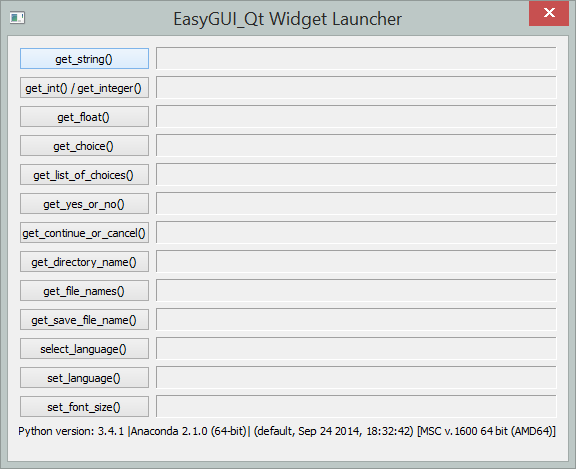
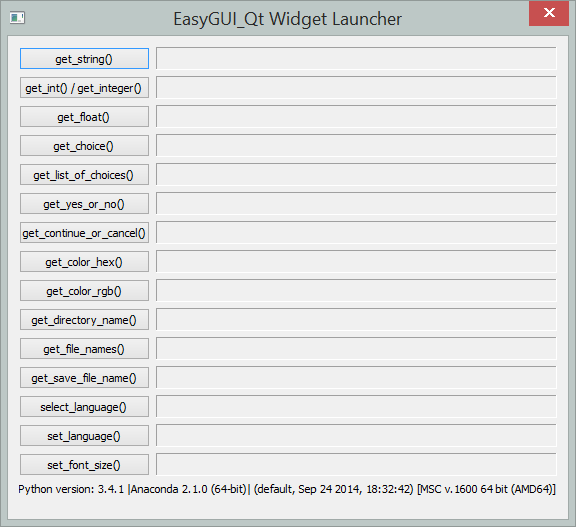
added color dialogs

Changed region(s): [[0.0, 0.0, 1.0, 0.9552], [0.25, 0.8358, 0.9688, 0.8657]]

diff --git a/easygui_qt/demos/launcher.py b/easygui_qt/demos/launcher.py
@@ -99,6 +99,20 @@ class Dialog(QtGui.QDialog):
         layout.addWidget(self.get_continue_or_cancel_button, n, 0)
         layout.addWidget(self.get_continue_or_cancel_label, n, 1)
         n += 1
+        self.get_color_hex_button = QtGui.QPushButton("get_color_hex()")
+        self.get_color_hex_button.clicked.connect(self.get_color_hex)
+        self.get_color_hex_label = QtGui.QLabel()
+        self.get_color_hex_label.setFrameStyle(frameStyle)
+        layout.addWidget(self.get_color_hex_button, n, 0)
+        layout.addWidget(self.get_color_hex_label, n, 1)
+        n += 1
+        self.get_color_rgb_button = QtGui.QPushButton("get_color_rgb()")
+        self.get_color_rgb_button.clicked.connect(self.get_color_rgb)
+        self.get_color_rgb_label = QtGui.QLabel()
+        self.get_color_rgb_label.setFrameStyle(frameStyle)
+        layout.addWidget(self.get_color_rgb_button, n, 0)
+        layout.addWidget(self.get_color_rgb_label, n, 1)
+        n += 1
         self.get_directory_button = QtGui.QPushButton("get_directory_name()")
         self.get_directory_button.clicked.connect(self.get_directory_name)
         self.get_directory_label = QtGui.QLabel()
@@ -183,6 +197,14 @@ class Dialog(QtGui.QDialog):
     def get_continue_or_cancel(self):
         output = launch('get_continue_or_cancel')
         self.get_continue_or_cancel_label.setText("{}".format(output))
+
+    def get_color_hex(self):
+        color = launch('get_color_hex')
+        self.get_color_hex_label.setText(color)
+
+    def get_color_rgb(self):
+        color = launch('get_color_rgb')
+        self.get_color_rgb_label.setText(color)
 
     def get_directory_name(self):
         output = launch('get_directory_name')

diff --git a/easygui_qt/easygui_qt.py b/easygui_qt/easygui_qt.py
@@ -26,6 +26,8 @@ __all__ = [
     'get_string',
     'get_yes_or_no',
     'get_continue_or_cancel',
+    'get_color_hex',
+    'get_color_rgb',
     'get_directory_name',
     'get_file_names',
     'get_save_file_name',
@@ -338,6 +340,35 @@ def get_continue_or_cancel(question="Processed will be cancelled!", title="Title
         return "continue"
     else:
         return "cancel"
+
+@with_app
+def get_color_hex(app=None):
+    """Using a color dialog, returns a color in hexadecimal notation
+       i.e. '#RRGGBB' or "None" if color dialog is dismissed.
+
+       >>> import easygui_qt as easy
+       >>> easy.get_color_hex()
+
+       .. image:: ../docs/images/select_color.png
+       """
+    color = QtGui.QColorDialog.getColor(QtCore.Qt.white, None)
+    if color.isValid():
+        return color.name()
+
+@with_app
+def get_color_rgb(app=None):
+    """Using a color dialog, returns a color in rgb notation
+       i.e. (r, g, b)  or "None" if color dialog is dismissed.
+
+       >>> import easygui_qt as easy
+       >>> easy.set_language('fr')
+       >>> easy.get_color_rgb()
+
+       .. image:: ../docs/images/select_color_fr.png
+       """
+    color = QtGui.QColorDialog.getColor(QtCore.Qt.white, None)
+    if color.isValid():
+        return (color.red(), color.green(), color.blue())
 
 
 @with_app
